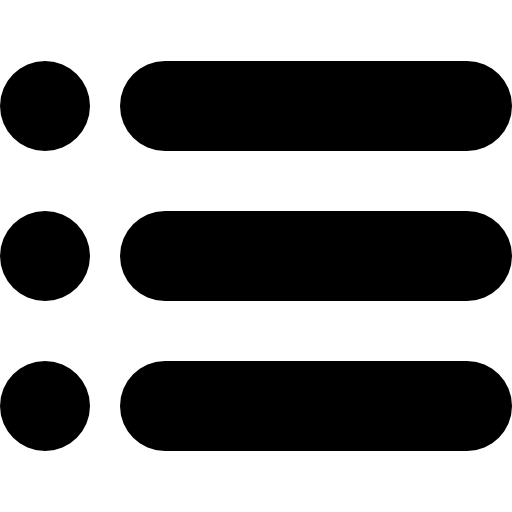
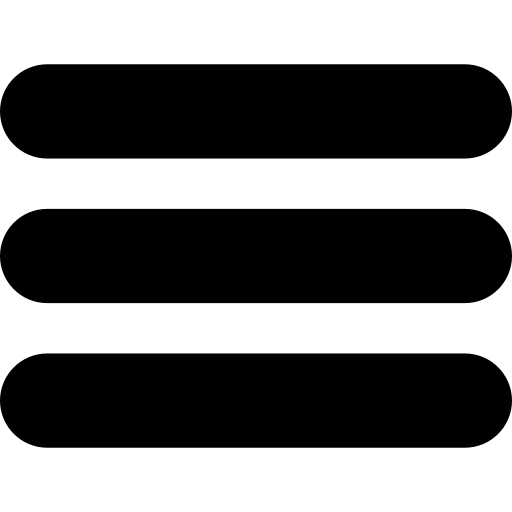
navbar responsive (flex)

diff --git a/css/style.css b/css/style.css
@@ -1,5 +1,4 @@
 /*! ---FONTS--- */
-@import url();
 
 /*! ---RESET--- */
 
@@ -17,17 +16,25 @@ body {
 /* ----HEADER-----*/
 
 header {
-    background-color: black;
-    padding: 15px;
     position: sticky;
+    background-color: black;
+    width: 100%;
+    padding: 15px;
     top: 0;
-    color: white;
-    font-family: Arial;
-    font-size: 15px;
-    display: flex;
     z-index: 1000;
+    color: white;
+    display: flex;
     justify-content: space-between;
     align-items: center;
+}
+
+.logo {
+    font-size: 1.5rem;
+    font-weight: 600;
+    align-items: center;
+    color: white;
+    display: flex;
+    column-gap: 0.5rem;
 }
 
 header img {
@@ -43,12 +50,74 @@ header nav ul {
     padding: auto;
 }
 
+.menu {
+    display: flex;
+    column-gap: 5rem;
+}
+
+.menu a {
+    font-size: 1.2rem;
+    font-weight: 500;
+    color: white;
+}
+
+.open-menu, .close-menu {
+    position: absolute;
+    color: white;
+    cursor: pointer;
+    font-size: 1.5rem;
+    display: none;
+}
+
+.open-menu {
+    top: 50%;
+    right: 20px;
+    transform: translateY(-50%);
+}
+
+.close-menu {
+    top: 20px;
+    right: 20px;
+}
+
+#check {
+    display: none;
+}
+
+@media(max-width: 1050px){
+    .menu {
+        flex-direction: column;
+        align-items: center;
+        justify-content: right;
+        width: 40%;
+        height: 100vh;
+        position: fixed;
+        top: 0;
+        right: -100%;
+        z-index: 100;
+        background-color: black;
+        transition: all 0.2s ease-in-out;
+    }
+    .menu li {
+        margin-top: 40px;
+    }
+    .menu li a {
+        padding: 10px;
+    }
+    .open-menu, .close-menu {
+        display: block;
+    }
+    #check:checked ~ .menu {
+        right: 0;
+    }
+}
+
 /* ----MAIN-----*/
 
 .estrenos {
     background-color: slategray;
-    padding: 15px;
-    align-items: center;
+    padding: 20px;
+    align-content: center;
 }
 
 .slider-frame {
@@ -57,6 +126,7 @@ header nav ul {
     height: auto;
     width: 1200px;
     margin-top: 5px;
+    align-items: center;
 }
 
 /* ----SLIDE ANIMACION-----*/
@@ -110,7 +180,6 @@ header nav ul {
     display: flex;
     gap: 1rem;
     margin: 10px;
-    align-items: center;
     padding: auto;
   }
 

diff --git a/index.html b/index.html
@@ -1,7 +1,7 @@
 <!DOCTYPE html>
 <html lang="es">
 <head>
-    <link rel="stylesheet" href="./css/styles.css">
+    <link rel="stylesheet" href="./css/style.css">
     <meta charset="UTF-8">
     <meta name="viewport" content="width=device-width, initial-scale=1.0">
     <title>Cinema Paradiso</title>
@@ -9,20 +9,25 @@
     <link rel="icon" type="image/x-icon" href="./img/camara.png"/>
 </head>
 <body>
-    <!-- comments -->
+    <!-- Navbar -->
     <header>
-        <div>
-            <h1><img src="./img/camara.png" alt="camara-cine">Cinema Paradiso</h1>
-        </div>
-        <nav>
-            <ul>
-                <!-- Enlaces relativos -->
-                <li><a href="./index.html">Inicio</a></li>
-                <li><a href="./pages/nosotros.html">Nosotros</a></li>
-                <li><a href="./pages/proximos.html">Proximos estrenos</a></li>
-                <li><a href="./pages/noticias.html">Noticias</a></li>
-                <!-- Enlaces internos -->
-                <li><a href="#contactos">Contacto</a></li>
+        <a href="./index.html" class="logo">
+            <i><img src="./img/camara.png" alt="logo"></i>Cinema Paradiso
+        </a>
+        <nav>  
+            <ul class="navbar">
+                <input type="checkbox" id="check">
+                <span class="menu">
+                    <!-- Enlaces relativos -->
+                    <li><a href="./index.html" class="home-active">Inicio</a></li>
+                    <li><a href="./pages/nosotros.html">Nosotros</a></li>
+                    <li><a href="./pages/proximos.html">Proximos estrenos</a></li>
+                    <li><a href="./pages/noticias.html">Noticias</a></li>
+                    <!-- Enlaces internos -->
+                    <li><a href="#contactos">Contacto</a></li>
+                    <label for="check" class="close-menu"><i><img src="./img/exit.png" alt="exit"></i></label>
+                </span>
+                <label for="check" class="open-menu"><i><img src="./img/menu.png" alt="menu"></i></label>
             </ul>
         </nav>
     </header>

diff --git a/pages/nosotros.html b/pages/nosotros.html
@@ -1,7 +1,7 @@
 <!DOCTYPE html>
 <html lang="es">
 <head>
-    <link rel="stylesheet" href="../css/styles.css">
+    <link rel="stylesheet" href="../css/style.css">
     <meta charset="UTF-8">
     <meta name="viewport" content="width=device-width, initial-scale=1.0">
     <title>Cinema Paradiso</title>
@@ -10,19 +10,25 @@
 </head>
 <body>
     <!-- comments -->
+    <!-- Navbar -->
     <header>
-        <div>
-            <h1><img src="../img/camara.png" alt="camara-cine">Cinema Paradiso</h1>
-        </div>
-        <nav>
-            <ul>
-                <!-- Enlaces relativos -->
-                <li><a href="../index.html">Inicio</a></li>
-                <li><a href="./nosotros.html">Nosotros</a></li>
-                <li><a href="./proximos.html">Proximos estrenos</a></li>
-                <li><a href="./pages/noticias.html">Noticias</a></li>
-                <!-- Enlaces internos -->
-                <li><a href="#contactos">Contacto</a></li>
+        <a href="../index.html" class="logo">
+            <i><img src="../img/camara.png" alt="logo"></i>Cinema Paradiso
+        </a>
+        <nav>  
+            <ul class="navbar">
+                <input type="checkbox" id="check">
+                <span class="menu">
+                    <!-- Enlaces relativos -->
+                    <li><a href="../index.html" class="home-active">Inicio</a></li>
+                    <li><a href="./nosotros.html">Nosotros</a></li>
+                    <li><a href="./proximos.html">Proximos estrenos</a></li>
+                    <li><a href="./noticias.html">Noticias</a></li>
+                    <!-- Enlaces internos -->
+                    <li><a href="#contactos">Contacto</a></li>
+                    <label for="check" class="close-menu"><i><img src="../img/exit.png" alt="exit"></i></label>
+                </span>
+                <label for="check" class="open-menu"><i><img src="../img/menu.png" alt="menu"></i></label>
             </ul>
         </nav>
     </header>

diff --git a/pages/proximos.html b/pages/proximos.html
@@ -1,7 +1,7 @@
 <!DOCTYPE html>
 <html lang="es">
 <head>
-    <link rel="stylesheet" href="../css/styles.css">
+    <link rel="stylesheet" href="../css/style.css">
     <meta charset="UTF-8">
     <meta name="viewport" content="width=device-width, initial-scale=1.0">
     <title>Cinema Paradiso</title>
@@ -11,18 +11,23 @@
 <body>
     <!-- comments -->
     <header>
-        <div>
-            <h1><img src="../img/camara.png" alt="camara-cine">Cinema Paradiso</h1>
-        </div>
-        <nav>
-            <ul>
-                <!-- Enlaces relativos -->
-                <li><a href="../index.html">Inicio</a></li>
-                <li><a href="./nosotros.html">Nosotros</a></li>
-                <li><a href="./proximos.html">Proximos estrenos</a></li>
-                <li><a href="./noticias.html">Noticias</a></li>
-                <!-- Enlaces internos -->
-                <li><a href="#contactos">Contacto</a></li>
+        <a href="../index.html" class="logo">
+            <i><img src="../img/camara.png" alt="logo"></i>Cinema Paradiso
+        </a>
+        <nav>  
+            <ul class="navbar">
+                <input type="checkbox" id="check">
+                <span class="menu">
+                    <!-- Enlaces relativos -->
+                    <li><a href="../index.html" class="home-active">Inicio</a></li>
+                    <li><a href="./nosotros.html">Nosotros</a></li>
+                    <li><a href="./proximos.html">Proximos estrenos</a></li>
+                    <li><a href="./noticias.html">Noticias</a></li>
+                    <!-- Enlaces internos -->
+                    <li><a href="#contactos">Contacto</a></li>
+                    <label for="check" class="close-menu"><i><img src="../img/exit.png" alt="exit"></i></label>
+                </span>
+                <label for="check" class="open-menu"><i><img src="../img/menu.png" alt="menu"></i></label>
             </ul>
         </nav>
     </header>

diff --git a/pages/noticias.html b/pages/noticias.html
@@ -1,7 +1,7 @@
 <!DOCTYPE html>
 <html lang="es">
 <head>
-    <link rel="stylesheet" href="../css/styles.css">
+    <link rel="stylesheet" href="../css/style.css">
     <meta charset="UTF-8">
     <meta name="viewport" content="width=device-width, initial-scale=1.0">
     <title>Cinema Paradiso</title>
@@ -11,18 +11,23 @@
 <body>
     <!-- comments -->
     <header>
-        <div>
-            <h1><img src="../img/camara.png" alt="camara-cine">Cinema Paradiso</h1>
-        </div>
-        <nav>
-            <ul>
-                <!-- Enlaces relativos -->
-                <li><a href="../index.html">Inicio</a></li>
-                <li><a href="./nosotros.html">Nosotros</a></li>
-                <li><a href="./proximos.html">Proximos estrenos</a></li>
-                <li><a href="./noticias.html">Noticias</a></li>
-                <!-- Enlaces internos -->
-                <li><a href="#contactos">Contacto</a></li>
+        <a href="../index.html" class="logo">
+            <i><img src="../img/camara.png" alt="logo"></i>Cinema Paradiso
+        </a>
+        <nav>  
+            <ul class="navbar">
+                <input type="checkbox" id="check">
+                <span class="menu">
+                    <!-- Enlaces relativos -->
+                    <li><a href="../index.html" class="home-active">Inicio</a></li>
+                    <li><a href="./nosotros.html">Nosotros</a></li>
+                    <li><a href="./proximos.html">Proximos estrenos</a></li>
+                    <li><a href=".noticias.html">Noticias</a></li>
+                    <!-- Enlaces internos -->
+                    <li><a href="#contactos">Contacto</a></li>
+                    <label for="check" class="close-menu"><i><img src="../img/exit.png" alt="exit"></i></label>
+                </span>
+                <label for="check" class="open-menu"><i><img src="../img/menu.png" alt="menu"></i></label>
             </ul>
         </nav>
     </header>
